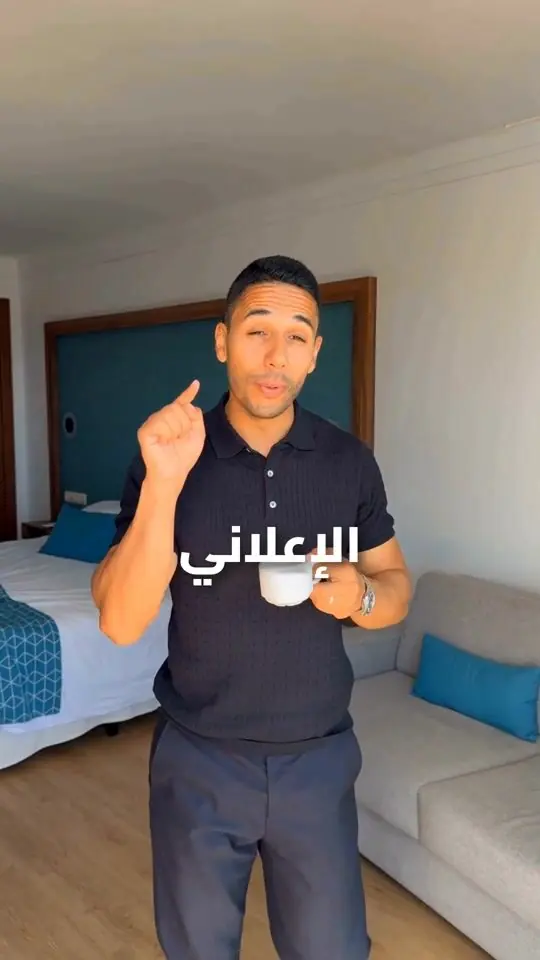
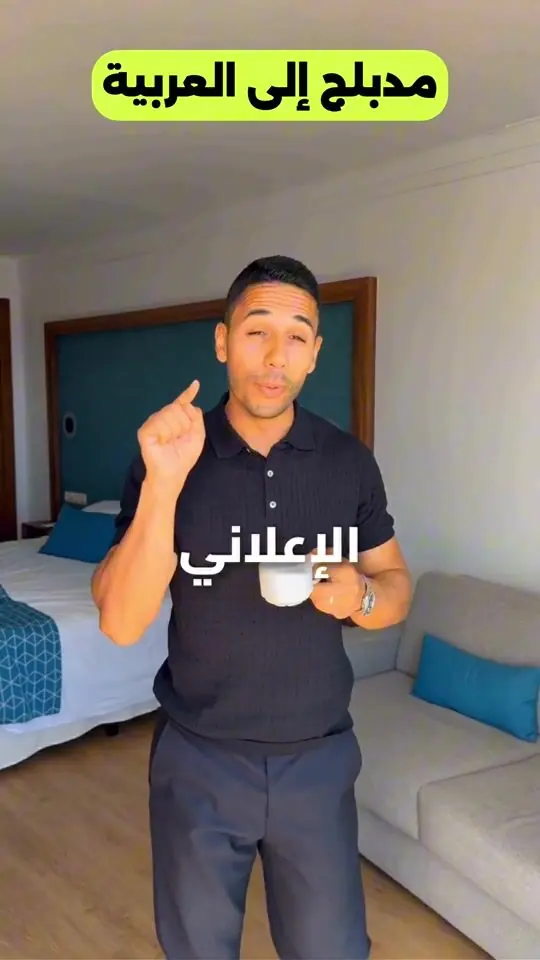
Arabic: new hero video (ARABIC-with-Dubbed-Text), language suggestion for Arab-country visitors
- Home hero centre video = owner's ARABIC-with-Dubbed-Text.mp4 (Stream afdb58eb…), new poster frame
- English pages suggest Arabic to first-time visitors from the 22 Arab League countries (card, never a redirect), /api/visitor-country answers { spain, arabic }
- Privacy Policy storage line and docs updated

Changed region(s): [[0.1481, 0.0312, 0.8296, 0.125]]

diff --git a/src/components/LanguageSuggestion.jsx b/src/components/LanguageSuggestion.jsx
@@ -10,7 +10,15 @@ import { rememberLanguage, rememberDismissal } from '../lib/languagePreference.j
 
 const btn = 'inline-flex min-h-[44px] flex-1 items-center justify-center whitespace-nowrap rounded-full px-3 py-2 text-[13.5px] font-semibold transition-colors focus-visible:outline focus-visible:outline-2 focus-visible:outline-offset-2 focus-visible:outline-lime'
 
-export default function LanguageSuggestion({ href, onClose }) {
+/* The words on the card, in the language being offered. Arabic is right-to-left (dir="rtl" on the card), so its close button sits on the left and the primary call to action comes first. */
+const COPY = {
+  es: { dir: 'ltr', label: 'Sugerencia de idioma', close: 'Cerrar', title: '¿Prefieres navegar en español?', body: 'También puedes visitar nuestra web en español.', stay: 'Continuar en inglés', go: 'Ver en español' },
+  ar: { dir: 'rtl', label: 'اقتراح اللغة', close: 'إغلاق', title: 'هل تفضّل تصفّح الموقع بالعربية؟', body: 'يمكنك أيضًا زيارة موقعنا باللغة العربية.', stay: 'المتابعة بالإنجليزية', go: 'عرض بالعربية' },
+}
+
+export default function LanguageSuggestion({ href, lang = 'es', onClose }) {
+  const c = COPY[lang] ?? COPY.es
+  const rtl = c.dir === 'rtl'
   const root = useRef(null)
   const cookieBannerUp = () => typeof document !== 'undefined' && !!document.querySelector('[aria-label="Cookie consent"]')
   const [waiting, setWaiting] = useState(cookieBannerUp) // true while the cookie banner is on screen
@@ -29,31 +37,32 @@ export default function LanguageSuggestion({ href, onClose }) {
 
   const stay = () => { rememberLanguage('en'); onClose() }
   const dismiss = () => { rememberDismissal(); onClose() }
-  const go = () => { rememberLanguage('es') } // then the link navigates normally
+  const go = () => { rememberLanguage(lang) } // then the link navigates normally
 
   if (waiting) return null
   return (
     <div
       ref={root}
       role="region"
-      aria-label="Sugerencia de idioma"
-      lang="es"
+      aria-label={c.label}
+      lang={lang}
+      dir={c.dir}
       onKeyDown={(e) => { if (e.key === 'Escape') dismiss() }}
-      className={`fixed inset-x-3 bottom-3 z-[60] rounded-2xl border border-hairline-strong bg-surface-1/95 p-4 shadow-[0_24px_60px_-20px_rgba(0,0,0,0.9)] backdrop-blur-md transition-opacity duration-300 motion-reduce:transition-none sm:inset-x-auto sm:bottom-5 sm:right-5 sm:w-[390px] ${shown ? 'opacity-100' : 'opacity-0'}`}
+      className={`fixed inset-x-3 bottom-3 z-[60] rounded-2xl border border-hairline-strong bg-surface-1/95 p-4 shadow-[0_24px_60px_-20px_rgba(0,0,0,0.9)] backdrop-blur-md transition-opacity duration-300 motion-reduce:transition-none sm:inset-x-auto sm:bottom-5 sm:w-[390px] ${rtl ? 'sm:left-5' : 'sm:right-5'} ${shown ? 'opacity-100' : 'opacity-0'}`}
     >
       <button
         type="button"
         onClick={dismiss}
-        aria-label="Cerrar"
+        aria-label={c.close}
         className="absolute right-2 top-2 inline-flex h-10 w-10 items-center justify-center rounded-full text-ink-muted transition-colors hover:text-ink focus-visible:outline focus-visible:outline-2 focus-visible:outline-offset-2 focus-visible:outline-lime"
       >
         <svg viewBox="0 0 12 12" className="h-3.5 w-3.5" fill="none" aria-hidden="true"><path d="M2.5 2.5l7 7M9.5 2.5l-7 7" stroke="currentColor" strokeWidth="1.7" strokeLinecap="round" /></svg>
       </button>
-      <p className="pr-9 font-display text-[16px] font-semibold leading-snug text-ink">¿Prefieres navegar en español?</p>
-      <p className="mt-1 text-[14px] leading-relaxed text-ink-muted">También puedes visitar nuestra web en español.</p>
+      <p className={`pr-9 font-display text-[16px] font-semibold leading-snug text-ink`}>{c.title}</p>
+      <p className="mt-1 text-[14px] leading-relaxed text-ink-muted">{c.body}</p>
       <div className="mt-3.5 flex flex-col gap-2 min-[350px]:flex-row min-[350px]:items-center">
-        <button type="button" onClick={stay} className={`${btn} border border-hairline-strong bg-surface-2 text-ink hover:bg-surface-3`}>Continuar en inglés</button>
-        <a href={href} hrefLang="es" onClick={go} className={`${btn} bg-lime text-canvas hover:brightness-95`}>Ver en español</a>
+        <button type="button" onClick={stay} className={`${btn} border border-hairline-strong bg-surface-2 text-ink hover:bg-surface-3`}>{c.stay}</button>
+        <a href={href} hrefLang={lang} onClick={go} className={`${btn} bg-lime text-canvas hover:brightness-95`}>{c.go}</a>
       </div>
     </div>
   )

diff --git a/src/lib/languageSuggestion.js b/src/lib/languageSuggestion.js
@@ -1,4 +1,4 @@
-/* LANGUAGE SUGGESTION for visitors in Spain: a small, dismissible hint on ENGLISH pages. A progressive enhancement only.
+/* LANGUAGE SUGGESTION for visitors in Spain (Spanish) and in Arabic-speaking countries (Arabic): a small, dismissible hint on ENGLISH pages. A progressive enhancement only.
 
    What it is NOT: a redirect. No page, URL, canonical, hreflang, sitemap entry, metadata or JSON-LD changes, and the prerendered HTML never contains the hint (it is mounted in its own React root
    after the page has loaded and hydrated), so crawlers and visitors outside Spain receive exactly the same page as before. Both languages stay independently reachable and indexable.
@@ -20,37 +20,43 @@ export const GEO_ENDPOINT = '/api/visitor-country'
 const LEGAL = new Set([PATHS.privacy, PATHS.terms, PATHS.legalNotice])
 const isPublicPage = (basePath) => KNOWN_PATHS.includes(basePath) || basePath.startsWith(`${BLOG_PATH}/`)
 
-/* Where "Ver en español" goes for this English page: the equivalent Spanish page when it exists and is released, otherwise the Spanish homepage. Null = do not offer. */
-export function suggestionTarget(pathname) {
+/* Where "Ver en español" / «عرض بالعربية» goes for this English page: the equivalent page in that language when it exists and is released, otherwise that language's homepage. Null = do not offer. */
+export function suggestionTarget(pathname, lang = 'es') {
   const { locale, basePath } = parsePath(pathname)
-  if (locale !== DEFAULT_LOCALE || !isLive('es')) return null
+  if (locale !== DEFAULT_LOCALE || !isLive(lang)) return null
   if (!isPublicPage(basePath) || LEGAL.has(basePath)) return null
-  return { href: switchTarget('es', basePath) }
+  return { href: switchTarget(lang, basePath) }
 }
 
-/* Asks the server whether this request came from Spain. Any failure (network, status, bad JSON, timeout) is "no". */
-export async function visitorIsInSpain(fetchImpl = (typeof fetch === 'undefined' ? undefined : fetch), timeoutMs = 4000) {
-  if (!fetchImpl) return false
+/* Asks the server which suggestion (if any) this request is eligible for: 'es' (Spain), 'ar' (an Arabic-speaking country) or null. Any failure (network, status, bad JSON, timeout) is null. */
+export async function visitorSuggestedLanguage(fetchImpl = (typeof fetch === 'undefined' ? undefined : fetch), timeoutMs = 4000) {
+  if (!fetchImpl) return null
   const ctrl = typeof AbortController === 'undefined' ? null : new AbortController()
   const timer = ctrl ? setTimeout(() => ctrl.abort(), timeoutMs) : null
   try {
     const res = await fetchImpl(GEO_ENDPOINT, { method: 'GET', cache: 'no-store', credentials: 'same-origin', signal: ctrl?.signal })
-    if (!res.ok) return false
-    return (await res.json())?.spain === true
+    if (!res.ok) return null
+    const body = await res.json()
+    return body?.spain === true ? 'es' : body?.arabic === true ? 'ar' : null
   } catch {
-    return false
+    return null
   } finally {
     if (timer) clearTimeout(timer)
   }
 }
 
+/* Kept for callers that only care about Spain. */
+export const visitorIsInSpain = async (fetchImpl, timeoutMs) => (await visitorSuggestedLanguage(fetchImpl, timeoutMs)) === 'es'
+
 /* Called once from src/main.jsx after the page has loaded. Resolves true when the suggestion was mounted. */
 export async function startLanguageSuggestion({ win = window, doc = document, fetchImpl, mount } = {}) {
-  const target = suggestionTarget(win.location.pathname)
-  if (!target || readLanguageChoice(win)) return false
-  if (!(await visitorIsInSpain(fetchImpl))) return false
+  if (!suggestionTarget(win.location.pathname, 'es') && !suggestionTarget(win.location.pathname, 'ar')) return false
+  if (readLanguageChoice(win)) return false
+  const lang = await visitorSuggestedLanguage(fetchImpl)
+  const target = lang && suggestionTarget(win.location.pathname, lang)
+  if (!target) return false
   if (readLanguageChoice(win)) return false // chosen in another tab while we asked
   const { mountLanguageSuggestion } = mount ? { mountLanguageSuggestion: mount } : await import('../components/mountLanguageSuggestion.jsx')
-  mountLanguageSuggestion(doc, target.href)
+  mountLanguageSuggestion(doc, target.href, lang)
   return true
 }

diff --git a/src/content/trustPages.js b/src/content/trustPages.js
@@ -236,7 +236,7 @@ export const TRUST_CONTENT = {
           'Your browser\'s storage on this site stays on your device:',
           { list: [
             'convrt_consent_v1 (kept until you change it or clear your browser data; used only once the cookie banner is switched on): your cookie choice.',
-            'convrt_language (kept until you clear your browser data): the language you chose on purpose, English or Spanish, or that you closed the language suggestion, so we do not ask again. It is never sent to us and never changes what a page shows. The suggestion itself appears only to visitors whose request comes from Spain: our hosting provider (Vercel) tells our server the country of the request, our server answers only yes or no and stores nothing, and your browser location is never requested.',
+            'convrt_language (kept until you clear your browser data): the language you chose on purpose, English, Spanish or Arabic, or that you closed the language suggestion, so we do not ask again. It is never sent to us and never changes what a page shows. The suggestion itself appears only to visitors whose request comes from Spain (Spanish) or from an Arabic-speaking country (Arabic): our hosting provider (Vercel) tells our server the country of the request, our server answers only yes or no and stores nothing, and your browser location is never requested.',
             'convrt_scale_attribution (this browser tab only): the campaign details in the link you arrived through (utm_source, utm_medium, utm_campaign, utm_content and utm_term), so they can be passed on to our booking link. We do not store advertising click identifiers (such as gclid or fbclid).',
             'convrt_calendly_requested (this browser session only): that you asked to see the booking calendar.',
             'convrt_landing_page (this browser session only, and only if you accept analytics): the first page of your visit, used to see which pages lead to enquiries.',

diff --git a/api/_lib/geo.js b/api/_lib/geo.js
@@ -1,3 +1,8 @@
-/* Where a request came from, as far as this site needs to know: Spain or not. Vercel sets the x-vercel-ip-country header on every request at its edge (a client cannot set it);
-   it is the same value @vercel/functions' geolocation() reads. Only the boolean leaves this function: no IP address, no country code of anyone else, nothing is stored or logged. */
-export const isSpain = (headers = {}) => String(headers['x-vercel-ip-country'] ?? '').trim().toUpperCase() === 'ES'
+/* Where a request came from, as far as this site needs to know: Spain, an Arabic-speaking country, or neither. Vercel sets the x-vercel-ip-country header on every request at its edge (a client cannot set it);
+   it is the same value @vercel/functions' geolocation() reads. Only booleans leave this function: no IP address, no country code of anyone else, nothing is stored or logged. */
+const country = (headers = {}) => String(headers['x-vercel-ip-country'] ?? '').trim().toUpperCase()
+export const isSpain = (headers = {}) => country(headers) === 'ES'
+
+/* The 22 member states of the Arab League (Saudi Arabia, the UAE and the other Gulf states, the Levant, Iraq, Egypt, Sudan, the Maghreb and the rest): the countries where a visitor is offered the Arabic site. */
+export const ARAB_COUNTRIES = ['SA', 'AE', 'QA', 'KW', 'BH', 'OM', 'YE', 'IQ', 'JO', 'LB', 'SY', 'PS', 'EG', 'SD', 'LY', 'TN', 'DZ', 'MA', 'MR', 'SO', 'DJ', 'KM']
+export const isArabCountry = (headers = {}) => ARAB_COUNTRIES.includes(country(headers))

diff --git a/api/visitor-country.js b/api/visitor-country.js
@@ -1,10 +1,10 @@
-/* Vercel serverless function: GET /api/visitor-country → { "spain": true | false }.
+/* Vercel serverless function: GET /api/visitor-country → { "spain": true | false, "arabic": true | false }.
    Used by the language suggestion on English pages (src/lib/languageSuggestion.js). The answer depends on WHO is asking, so it is never cacheable by a shared cache:
-   `Cache-Control: private, no-store` (set by send()) and `Vary: x-vercel-ip-country`. Anything unexpected answers { spain: false }. */
+   `Cache-Control: private, no-store` (set by send()) and `Vary: x-vercel-ip-country`. Anything unexpected answers false for both. */
 import { send } from './_lib/http.js'
-import { isSpain } from './_lib/geo.js'
+import { isSpain, isArabCountry } from './_lib/geo.js'
 
 export default function handler(req, res) {
   if (req.method !== 'GET' && req.method !== 'HEAD') return send(res, 405, { error: 'method_not_allowed' }, { Allow: 'GET, HEAD' })
-  return send(res, 200, { spain: isSpain(req.headers) }, { 'Cache-Control': 'private, no-store, max-age=0', Vary: 'x-vercel-ip-country' })
+  return send(res, 200, { spain: isSpain(req.headers), arabic: isArabCountry(req.headers) }, { 'Cache-Control': 'private, no-store, max-age=0', Vary: 'x-vercel-ip-country' })
 }

diff --git a/src/content/homeHero.js b/src/content/homeHero.js
@@ -91,10 +91,10 @@ export const HOME_HERO_AR = [
     creatorId: 'ar-hero-gulf-c',
     industry: 'unclassified',
     languages: ['ar'],
-    caption: 'مقدّم يتحدث بالعربية أمام الكاميرا في أماكن مختلفة، مع عناوين مكتوبة على الشاشة.',
+    caption: 'مقدّم يتحدث أمام الكاميرا في أماكن مختلفة، مع عناوين عربية مكتوبة على الشاشة.',
     poster: '/portfolio/ar-hero-gulf.webp',
-    source: { cloudflareId: 'b9e0e42256dc09c9f554c6d4f21b4785' },
-    approval: { ...approval, approvedBy: 'CONVRT owner (Arabic final revisions, 2026-11-24: supplied this video as the Arabic hero video)', approvedOn: '2026-11-24' },
+    source: { cloudflareId: 'afdb58ebb92354534b513dabca0d64f5' },
+    approval: { ...approval, approvedBy: 'CONVRT owner (2026-11-24: supplied ARABIC-with-Dubbed-Text.mp4 as the Arabic hero video)', approvedOn: '2026-11-24' },
   },
   {
     id: 'home-hero-ar-left',

diff --git a/src/content/posterFrames.js b/src/content/posterFrames.js
@@ -16,7 +16,7 @@ export const POSTER_FRAMES = {
   'a256f8f429c8e2d26256e894af970dbf': 18.8, // portfolio:ar-oneroyal-1 [ar]
   '871ea801a38e653cd48c036374966382': 5.8, // portfolio:ar-oneroyal-2 [ar]
   '8bc61e80a5240cde3f16a90f63dbc4fa': 11.6, // portfolio:ar-oneroyal-3 [ar]
-  'b9e0e42256dc09c9f554c6d4f21b4785': 8.0, // home-hero-ar:home-hero-ar-main [ar]: presenter facing the camera, clean Arabic caption (the first seconds carry an English comment overlay)
+  'afdb58ebb92354534b513dabca0d64f5': 8.0, // home-hero-ar:home-hero-ar-main [ar]: presenter smiling at the camera with open eyes, one Arabic caption word (every frame carries the burned-in «مدبلج إلى العربية» badge)
   '442dfb5fe6a49dffd032ecd920414512': 13.0, // portfolio:ar-ugc-hero-1 [ar]
   'e76683d744c46ecfe8e1fb53b273b926': 15.6, // portfolio:ar-ugc-hero-2 [ar]
   '7f68e3f6c92e70395cad4876fcb389a8': 24.9, // portfolio:ar-ugc-hero-3 [ar]

diff --git a/src/components/mountLanguageSuggestion.jsx b/src/components/mountLanguageSuggestion.jsx
@@ -2,10 +2,10 @@ import { createRoot } from 'react-dom/client'
 import LanguageSuggestion from './LanguageSuggestion.jsx'
 
 /* Mounts the suggestion in its OWN root (like the cookie banner), so the prerendered markup and hydration are never affected. */
-export function mountLanguageSuggestion(doc, href) {
+export function mountLanguageSuggestion(doc, href, lang = 'es') {
   const host = doc.createElement('div')
   host.id = 'language-suggestion-root'
   doc.body.appendChild(host)
   const root = createRoot(host)
-  root.render(<LanguageSuggestion href={href} onClose={() => { root.unmount(); host.remove() }} />)
+  root.render(<LanguageSuggestion href={href} lang={lang} onClose={() => { root.unmount(); host.remove() }} />)
 }

diff --git a/docs/language-suggestion.md b/docs/language-suggestion.md
@@ -30,3 +30,10 @@ No fingerprints, IP lists or hard-coded addresses: each browser simply stores it
 ## Files
 `api/visitor-country.js`, `api/_lib/geo.js`, `src/lib/languagePreference.js`, `src/lib/languageSuggestion.js`, `src/components/LanguageSuggestion.jsx`, `src/components/mountLanguageSuggestion.jsx` (own React root, like the cookie banner),
 wiring in `src/main.jsx` and `src/components/LanguageSelector.jsx`, dev route in `vite.config.js`, Privacy Policy line in `src/content/trustPages.js`.
+
+## Arabic suggestion (added 2026-11-24)
+The same card is offered in **Arabic** to first-time visitors on an English page whose request comes from an Arabic-speaking country: the 22 Arab League states (Saudi Arabia, the UAE, Qatar, Kuwait, Bahrain, Oman, Yemen, Iraq, Jordan, Lebanon, Syria, Palestine, Egypt, Sudan, Libya, Tunisia, Algeria, Morocco, Mauritania, Somalia, Djibouti, the Comoros; `ARAB_COUNTRIES` in `api/_lib/geo.js`).
+- `/api/visitor-country` now answers `{ "spain": bool, "arabic": bool }` (still only booleans, same no-store headers). Spain wins if both were ever true; no other country sees a card.
+- Text (`COPY.ar` in `LanguageSuggestion.jsx`, `dir="rtl"`, `lang="ar"`): «هل تفضّل تصفّح الموقع بالعربية؟» / «يمكنك أيضًا زيارة موقعنا باللغة العربية.» / «المتابعة بالإنجليزية» / «عرض بالعربية» / «إغلاق». Native Gulf copy review still pending like the rest of the Arabic copy.
+- «عرض بالعربية» links to the equivalent released Arabic page, otherwise `/ar/` (`suggestionTarget(path, 'ar')`); it stores `ar` in `convrt_language`. English-only pages (blog, free hooks…) fall back to `/ar/`.
+- Never a redirect, never on `/ar/` pages, never in the prerendered HTML. The Privacy Policy line mentions Arabic. Tests: `tests/language-suggestion.test.mjs`.

diff --git a/docs/video-thumbnails.md b/docs/video-thumbnails.md
@@ -83,7 +83,7 @@ Not changed: the Roadmap explainer keeps its deliberately chosen 25.6 s frame; t
 | `b3db2280…` | 3.1s | portfolio:spokesperson-hero-1 |
 | `b5c4b833…` | 11.7s | portfolio:es-spokesperson-2 [es] |
 | `b73842a4…` | 14s | portfolio:ugc-gal-8 |
-| `b9e0e422…` | 8s | home-hero-ar:home-hero-ar-main [ar] |
+| `afdb58eb…` | 8s | home-hero-ar:home-hero-ar-main [ar] |
 | `c0c30e58…` | 39.9s | portfolio:spokesperson-hero-2 |
 | `c118345b…` | 3.2s | portfolio:es-ugc-3 [es] |
 | `c1379ace…` | 4.6s | portfolio:ar-graspo-1 (home panel graspo) [ar]; portfolio:showcase-graspo-3 (home panel graspo); graspo case study 7.5M |
